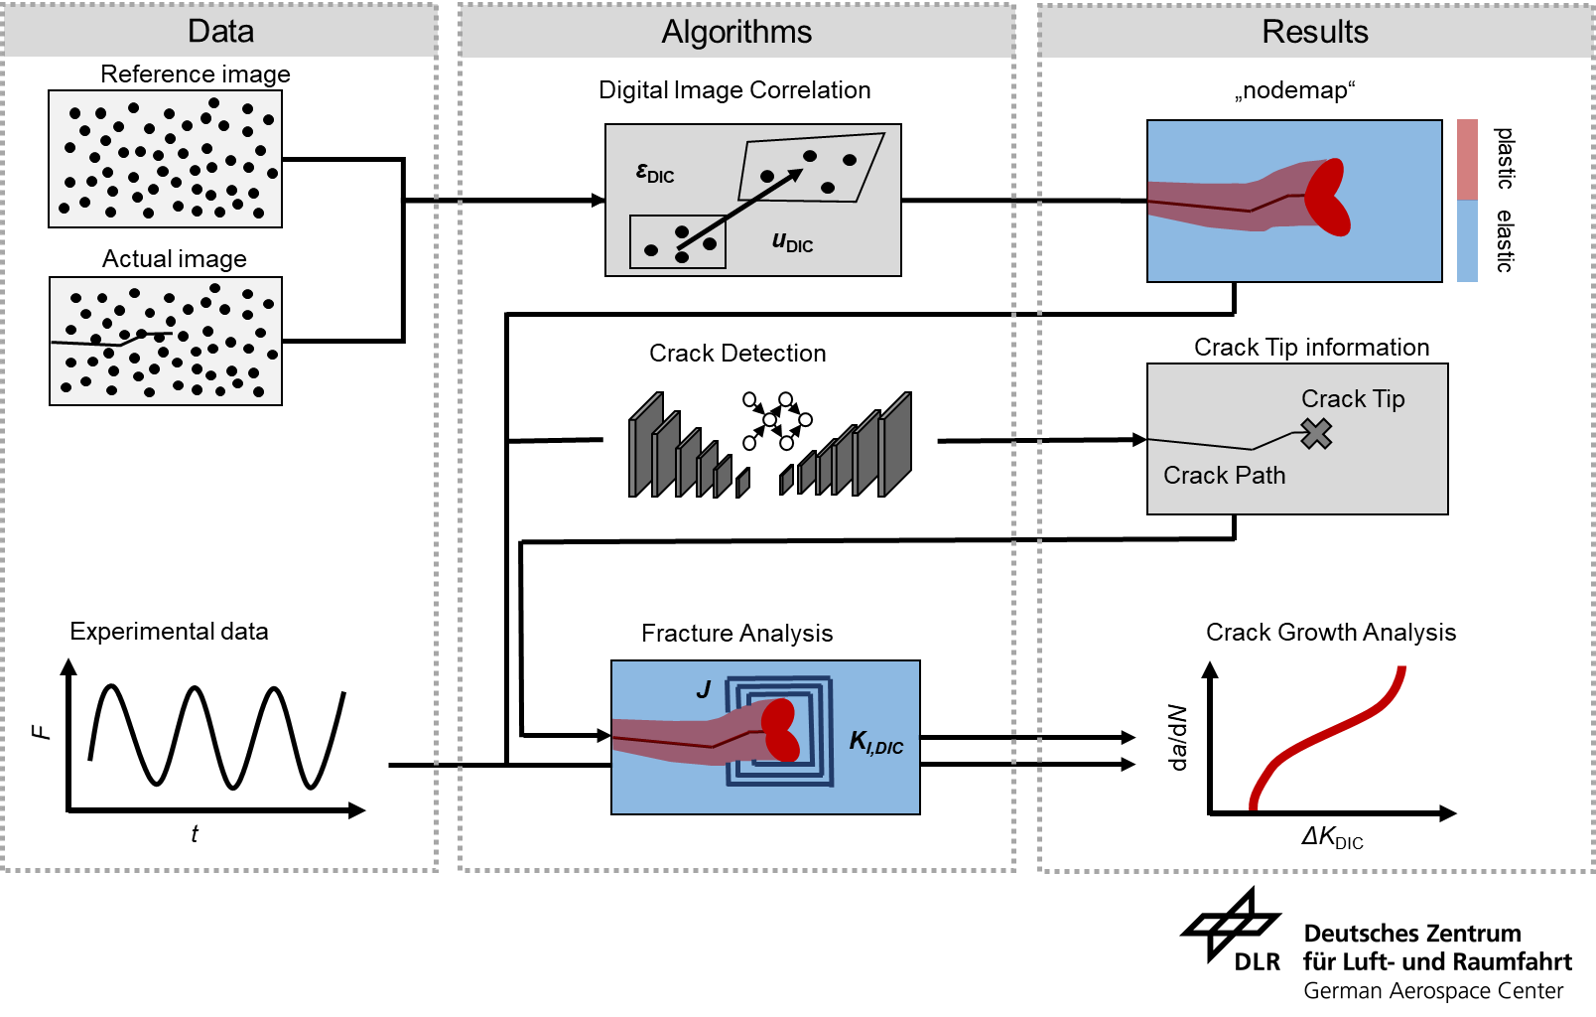
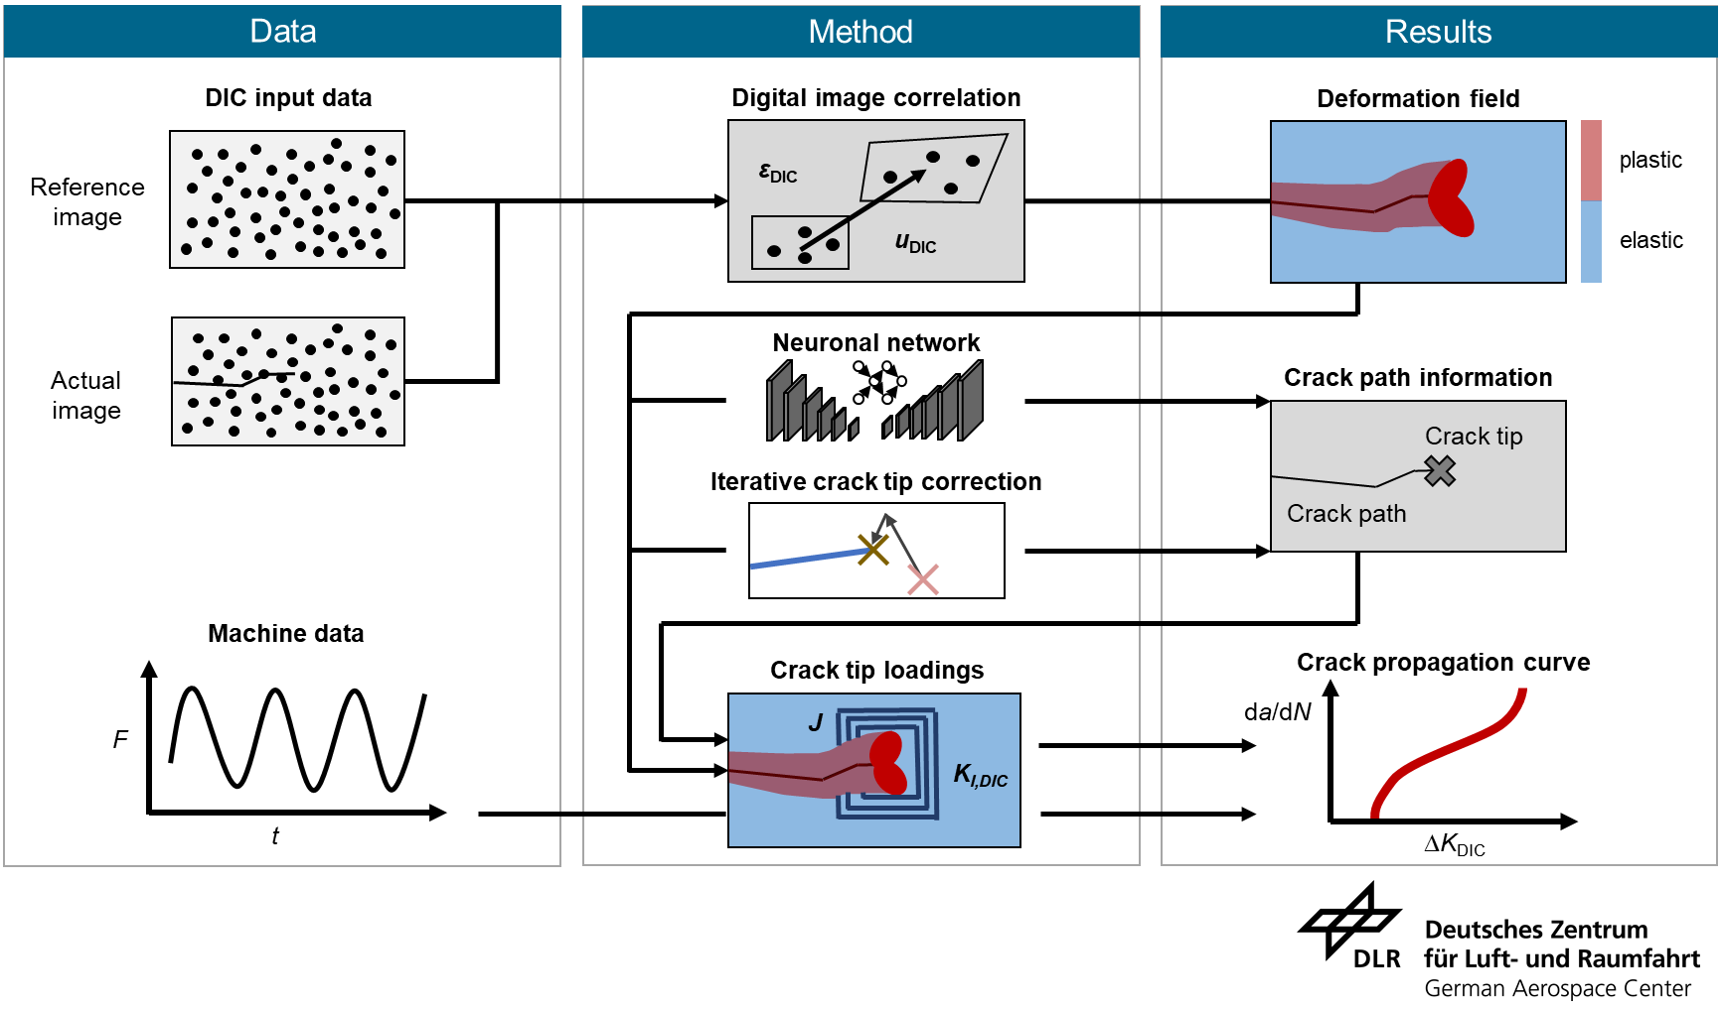
Merge: Updated README.md to include iterative crack tip correction

Changed region(s): [[0.0, 0.0, 1.0, 0.8603], [0.7368, 0.8603, 0.9825, 1.0]]

diff --git a/README.md b/README.md
@@ -44,7 +44,7 @@ specific software. Therefore, these modules can only be used if CrackPy is insta
 an actual GOM Aramis Professional software >v2020 (in case of **dic**) or if a valid version and license of Ansys is available 
 (in case of **simulation**). For more details, we refer to our Wiki. Once you have stored your nodemap files either from dic, 
 simulation or from a different source, you reach the heart of our fracture analysis. You can detect crack paths and crack tips fully automatically
-using our **crack detection** module and our trained convolutional neural networks [**4**, **9**]. 
+using our **crack detection** module. This module provides a line intersection method together with an iterative crack tip correction algorithm based on the Williams expansion and our trained convolutional neural networks [**4**, **9**]. 
 We store the crack tip information in a file (this can also be generated manually) and use it as input for 
 the **fracture analysis** pipeline. Here we offer a wide range of methods and algorithms: 
 1. Calculate _J-integral_ [**5**, **10**]
